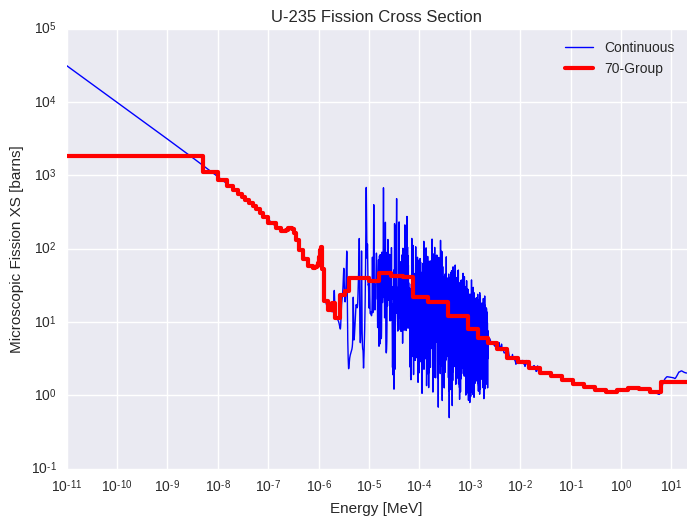
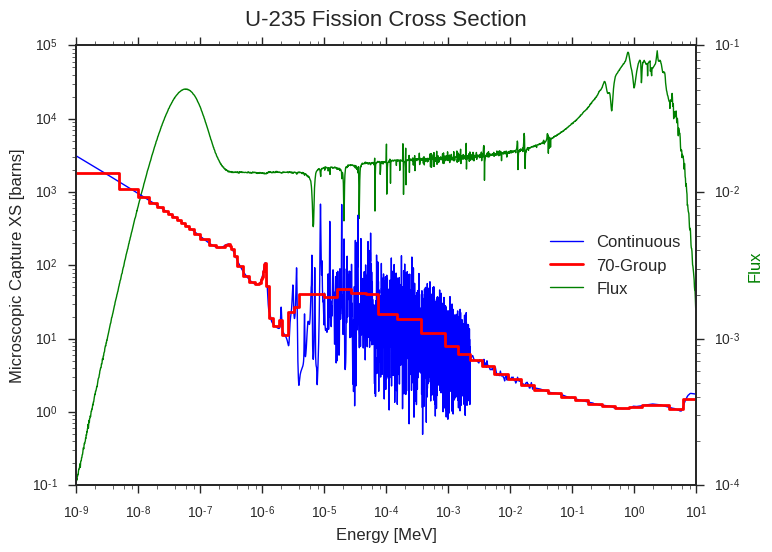
Updated MG and CE XS figures for intro

diff --git a/figures/intro/plot-ce-mg-xs.py b/figures/intro/plot-ce-mg-xs.py
@@ -1,5 +1,6 @@
 import os
 import re
+import copy
 
 import numpy as np
 import matplotlib.pyplot as plt
@@ -9,6 +10,8 @@ from infermc.energy_groups import group_structures
 import openmc
 import openmc.mgxs as mgxs
 import pyne.ace
+
+sns.set_style('ticks')
 
 # Instantiate some Nuclides
 h1 = openmc.Nuclide('H-1')
@@ -93,7 +96,7 @@ openmc_geometry.export_to_xml()
 settings_file = openmc.Settings()
 settings_file.batches = 100
 settings_file.inactive = 10
-settings_file.particles = 1000
+settings_file.particles = 100000
 
 # Create an initial uniform spatial source distribution over fissionable zones
 bounds = [-0.63, -0.63, -0.63, 0.63, 0.63, 0.63]
@@ -114,14 +117,20 @@ capture.domain = fuel_cell
 fission.by_nuclide = True
 capture.by_nuclide = True
 
+# Fine energy flux Tally
+flux = openmc.Tally(name='flux')
+energies = np.logspace(np.log10(1E-9), np.log10(10.), 2000)
+flux.filters = [openmc.Filter(type='energy', bins=energies)]
+flux.scores = ['flux']
+
 # Add OpenMC tallies to the tallies file for XML generation
-tallies_file = openmc.Tallies()
+tallies_file = openmc.Tallies([flux])
 tallies_file += list(fission.tallies.values())
 tallies_file += list(capture.tallies.values())
 tallies_file.export_to_xml()
 
 # Run OpenMC
-openmc.run(output=True)
+#openmc.run(output=True, mpi_procs=16, threads=1)
 
 # Load the last statepoint file
 sp = openmc.StatePoint('statepoint.100.h5')
@@ -129,6 +138,11 @@ sp = openmc.StatePoint('statepoint.100.h5')
 # Load statepoint data into MGXS
 fission.load_from_statepoint(sp)
 capture.load_from_statepoint(sp)
+
+# Get flux mean array and lengthen it to match energy bins for the plot
+flux = sp.get_tally(name='flux')
+flux_mean = flux.mean.flatten()
+flux_mean = np.insert(flux_mean, 0, flux_mean[0])
 
 # Instantiate a PyNE ACE continuous-energy cross sections library
 xs_dir = os.environ['OPENMC_CROSS_SECTIONS']
@@ -146,97 +160,95 @@ u235 = u235_lib.tables['92235.71c']
 ce_capture = u238.reactions[102]
 ce_fission = u235.reactions[18]
 
-# Create a loglog plot of the U-235 continuous-energy fission cross section
-fig = plt.figure()
-plt.loglog(u235.energy, ce_fission.sigma, color='b', linewidth=1)
 
-# Extract energy group bounds and MGXS values to plot
-x = fission.energy_groups.group_edges
-y = fission.get_xs(nuclides=['U-235'], order_groups='decreasing', xs_type='micro')
+for num_groups in [70, 16, 2]:
 
-# Fix low energy bound to the value defined by the ACE library
-x[0] = u235.energy[0]
-y = np.insert(y, 0, y[0])
+    # Condense to the coarse group structure
+    energy_groups = group_structures['CASMO']['{}-group'.format(num_groups)]
+    fission = fission.get_condensed_xs(energy_groups)
+    capture = capture.get_condensed_xs(energy_groups)
 
-# Create a step plot for the MGXS
-plt.plot(x, y, drawstyle='steps', color='r', linewidth=3)
-plt.title('U-235 Fission Cross Section')
-plt.xlabel('Energy [MeV]')
-plt.ylabel('Microscopic Fission XS [barns]')
-plt.legend(['Continuous', '70-Group'])
-plt.xlim((x.min(), x.max()))
-plt.savefig('u235-fission-70.png', bbox_inches='tight')
+    ###########################  U-235 FISSION  ###############################
+    fig = plt.figure()
+    ax1 = fig.add_subplot(111)
+    plot1 = ax1.loglog(u235.energy, ce_fission.sigma, color='b',
+                       linewidth=1, label='Continuous')
 
+    # Extract energy group bounds and MGXS values to plot
+    x = copy.deepcopy(fission.energy_groups.group_edges)
+    y = fission.get_xs(
+        nuclides=['U-235'], order_groups='decreasing',xs_type='micro')
 
+    # Fix low energy bound to the value defined by the ACE library
+    x[0] = u235.energy[0]
+    y = np.insert(y, 0, y[0])
 
-# Create a loglog plot of the U-235 continuous-energy fission cross section
-fig = plt.figure()
-plt.loglog(u238.energy, ce_capture.sigma, color='b', linewidth=1)
+    # Create a step plot for the MGXS
+    plot2 = ax1.plot(x, y, drawstyle='steps', color='r', linewidth=2,
+                     label='{}-Group'.format(num_groups))
 
-# Extract energy group bounds and MGXS values to plot
-x = capture.energy_groups.group_edges
-y = capture.get_xs(nuclides=['U-238'], order_groups='decreasing', xs_type='micro')
+    # Begin plot customization
+    ax1.set_xlabel('Energy [MeV]', fontsize=12)
+    ax1.set_ylabel('Microscopic Capture XS [barns]', fontsize=12)
 
-# Fix low energy bound to the value defined by the ACE library
-x[0] = u238.energy[0]
-y = np.insert(y, 0, y[0])
+    # Plot the flux
+    ax2 = ax1.twinx()
+    plot3 = ax2.loglog(flux.filters[0].bins, flux_mean,
+                       color='g', linewidth=1, zorder=1, label='Flux')
+    ax2.set_ylabel('Flux', color='g', fontsize=12)
+    ax1.set_zorder(ax2.get_zorder()+1) # put ax in front of ax2
+    ax1.patch.set_visible(False) # hide the 'canvas'
 
-# Create a step plot for the MGXS
-plt.plot(x, y, drawstyle='steps', color='r', linewidth=3)
-plt.title('U-238 Capture Cross Section')
-plt.xlabel('Energy [MeV]')
-plt.ylabel('Microscopic Capture XS [barns]')
-plt.legend(['Continuous', '70-Group'])
-plt.xlim((x.min(), x.max()))
-plt.savefig('u238-capture-70.png', bbox_inches='tight')
+    # Create legend
+    plots = plot1+plot2+plot3
+    labels = [plot.get_label() for plot in plots]
+    ax1.legend(plots, labels, loc='center right', fontsize=12)
 
-
-
-# Condense to the 2-group structure
-fission = fission.get_condensed_xs(group_structures['CASMO']['2-group'])
-capture = capture.get_condensed_xs(group_structures['CASMO']['2-group'])
-
-
-# Create a loglog plot of the U-235 continuous-energy fission cross section
-fig = plt.figure()
-plt.loglog(u235.energy, ce_fission.sigma, color='b', linewidth=1)
-
-# Extract energy group bounds and MGXS values to plot
-x = fission.energy_groups.group_edges
-y = fission.get_xs(nuclides=['U-235'], order_groups='decreasing', xs_type='micro')
-
-# Fix low energy bound to the value defined by the ACE library
-x[0] = u235.energy[0]
-y = np.insert(y, 0, y[0])
-
-# Create a step plot for the MGXS
-plt.plot(x, y, drawstyle='steps', color='r', linewidth=3)
-plt.title('U-235 Fission Cross Section')
-plt.xlabel('Energy [MeV]')
-plt.ylabel('Microscopic Fission XS [barns]')
-plt.legend(['Continuous', '2-Group'])
-plt.xlim((x.min(), x.max()))
-plt.savefig('u235-fission-2.png', bbox_inches='tight')
+    # Customize the plot
+    sns.set_style('ticks')
+    plt.title('U-235 Fission Cross Section', y=1.03, fontsize=16)
+    plt.xlim((1e-9, 1e1))
+    plt.savefig('u235-fission-{}.png'.format(num_groups), bbox_inches='tight')
 
 
+    ###########################  U-238 CAPTURE  ###############################
+    fig = plt.figure()
+    ax1 = fig.add_subplot(111)
+    plot1 = ax1.loglog(u238.energy, ce_capture.sigma, color='b',
+                       linewidth=1, label='Continuous')
 
-# Create a loglog plot of the U-235 continuous-energy capture cross section
-fig = plt.figure()
-plt.loglog(u238.energy, ce_capture.sigma, color='b', linewidth=1)
+    # Extract energy group bounds and MGXS values to plot
+    x = copy.deepcopy(capture.energy_groups.group_edges)
+    y = capture.get_xs(nuclides=['U-238'], order_groups='decreasing', xs_type='micro')
 
-# Extract energy group bounds and MGXS values to plot
-x = capture.energy_groups.group_edges
-y = capture.get_xs(nuclides=['U-238'], order_groups='decreasing', xs_type='micro')
+    # Fix low energy bound to the value defined by the ACE library
+    x[0] = u238.energy[0]
+    y = np.insert(y, 0, y[0])
 
-# Fix low energy bound to the value defined by the ACE library
-x[0] = u238.energy[0]
-y = np.insert(y, 0, y[0])
+    # Create a step plot for the MGXS
+    plot2 = ax1.plot(x, y, drawstyle='steps', color='r',
+                     linewidth=2, label='{}-Group'.format(num_groups))
 
-# Create a step plot for the MGXS
-plt.plot(x, y, drawstyle='steps', color='r', linewidth=3)
-plt.title('U-238 Capture Cross Section')
-plt.xlabel('Energy [MeV]')
-plt.ylabel('Microscopic Capture XS [barns]')
-plt.legend(['Continuous', '16-Group'])
-plt.xlim((x.min(), x.max()))
-plt.savefig('u238-capture-16.png', bbox_inches='tight')
+    # Begin plot customization
+    ax1.set_xlabel('Energy [MeV]', fontsize=12)
+    ax1.set_ylabel('Microscopic Capture XS [barns]', fontsize=12)
+
+    # Plot the flux
+    ax2 = ax1.twinx()
+    plot3 = ax2.loglog(flux.filters[0].bins, flux_mean,
+               color='g', linewidth=1, zorder=1, label='Flux')
+    ax2.set_ylabel('Flux', color='g', fontsize=12)
+    ax1.set_zorder(ax2.get_zorder()+1) # put ax in front of ax2
+    ax1.patch.set_visible(False) # hide the 'canvas'
+
+    # Create legend
+    plots = plot1+plot2+plot3
+    labels = [plot.get_label() for plot in plots]
+    ax1.legend(plots, labels, loc='center right', fontsize=12)
+
+    # Customize the plot
+    sns.set_style('ticks')
+    plt.title('U-238 Capture Cross Section', y=1.03, fontsize=16)
+    plt.xlim((1e-9, 1e1))
+    ax1.set_ylim((1E-4, 1e8))
+    plt.savefig('u238-capture-{}.png'.format(num_groups), bbox_inches='tight')

diff --git a/chapters/introduction.tex b/chapters/introduction.tex
@@ -5,12 +5,46 @@
 \section{Background}
 \label{sec:chap1-background}
 
+
 \begin{figure}
+\begin{subfigure}{.5\textwidth}
   \centering
-  \includegraphics[width=5in]{figures/u235-fission-40-group.png}
-  \caption[Uranium-238 capture cross section]{Uranium-235 fission cross section
-  showing a typical multi-group discretization for deterministic
-  methods.\label{fig:multigroup}}
+  \includegraphics[width=\linewidth]{figures/intro/u235-fission-70}
+  \caption{}
+  \label{fig:assm-cells}
+\end{subfigure}%
+\begin{subfigure}{.5\textwidth}
+  \centering
+  \includegraphics[width=\linewidth]{figures/intro/u238-capture-70}
+  \caption{}
+  \label{fig:colorset-cells}
+\end{subfigure}
+\begin{subfigure}{.5\textwidth}
+  \centering
+  \includegraphics[width=\linewidth]{figures/intro/u235-fission-16}
+  \caption{}
+  \label{fig:assm-unique-neighbors}
+\end{subfigure}
+\begin{subfigure}{.5\textwidth}
+  \centering
+  \includegraphics[width=\linewidth]{figures/intro/u238-capture-16}
+  \caption{}
+  \label{fig:colorset-unique-neighbors}
+\end{subfigure}
+\begin{subfigure}{.5\textwidth}
+  \centering
+  \includegraphics[width=\linewidth]{figures/intro/u235-fission-2}
+  \caption{}
+  \label{fig:assm-neighbors}
+\end{subfigure}
+\begin{subfigure}{.5\textwidth}
+  \centering
+  \includegraphics[width=\linewidth]{figures/intro/u238-capture-2}
+  \caption{}
+  \label{fig:colorset-neighbors}
+\end{subfigure}
+\caption{Continuous energy and multi-group cross sections for U-235 fission (left) and U-238 capture (right) reactions in a PWR spectrum for 70-, 16- and 2-groups.}
+\label{fig:pwr-ce-mg-xs}
 \end{figure}
 
 
